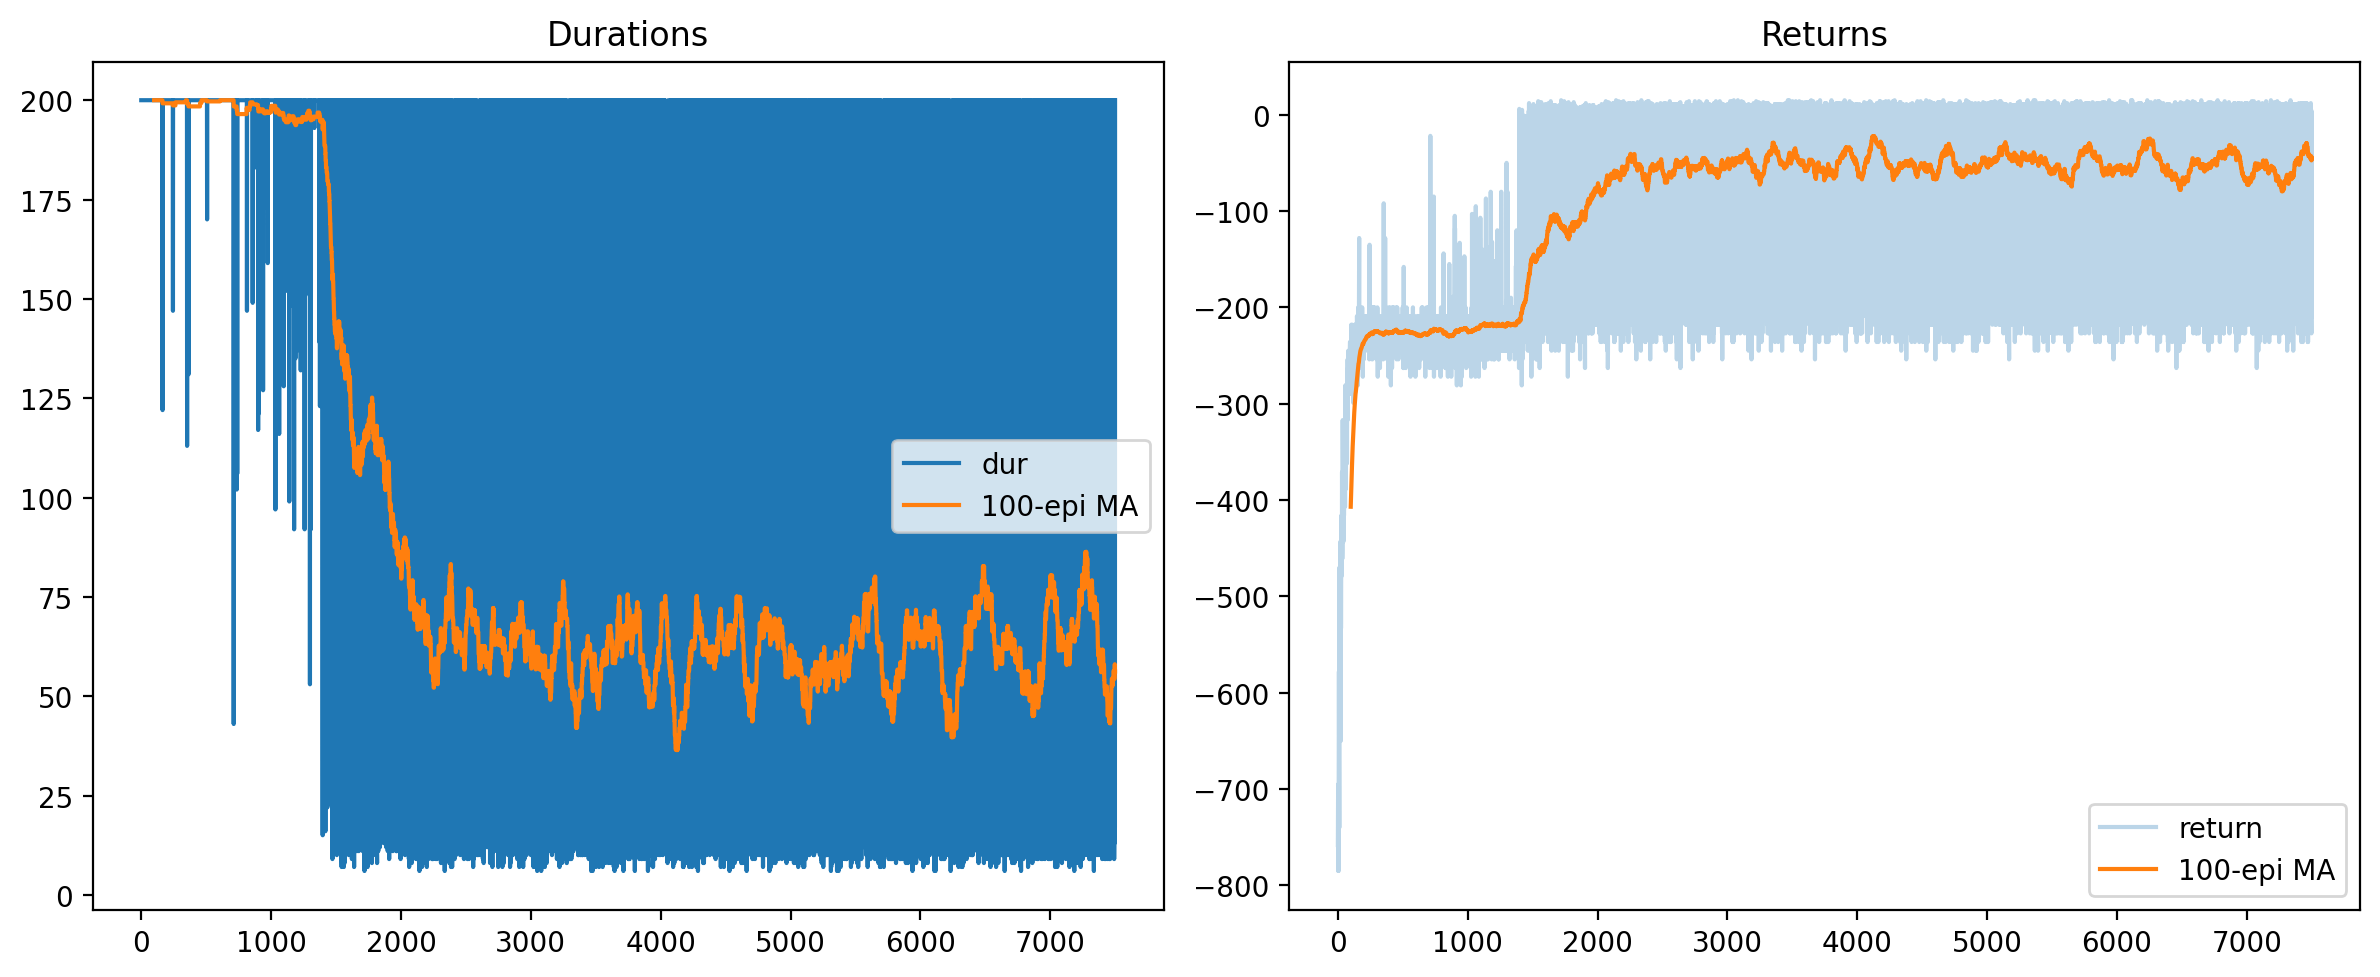
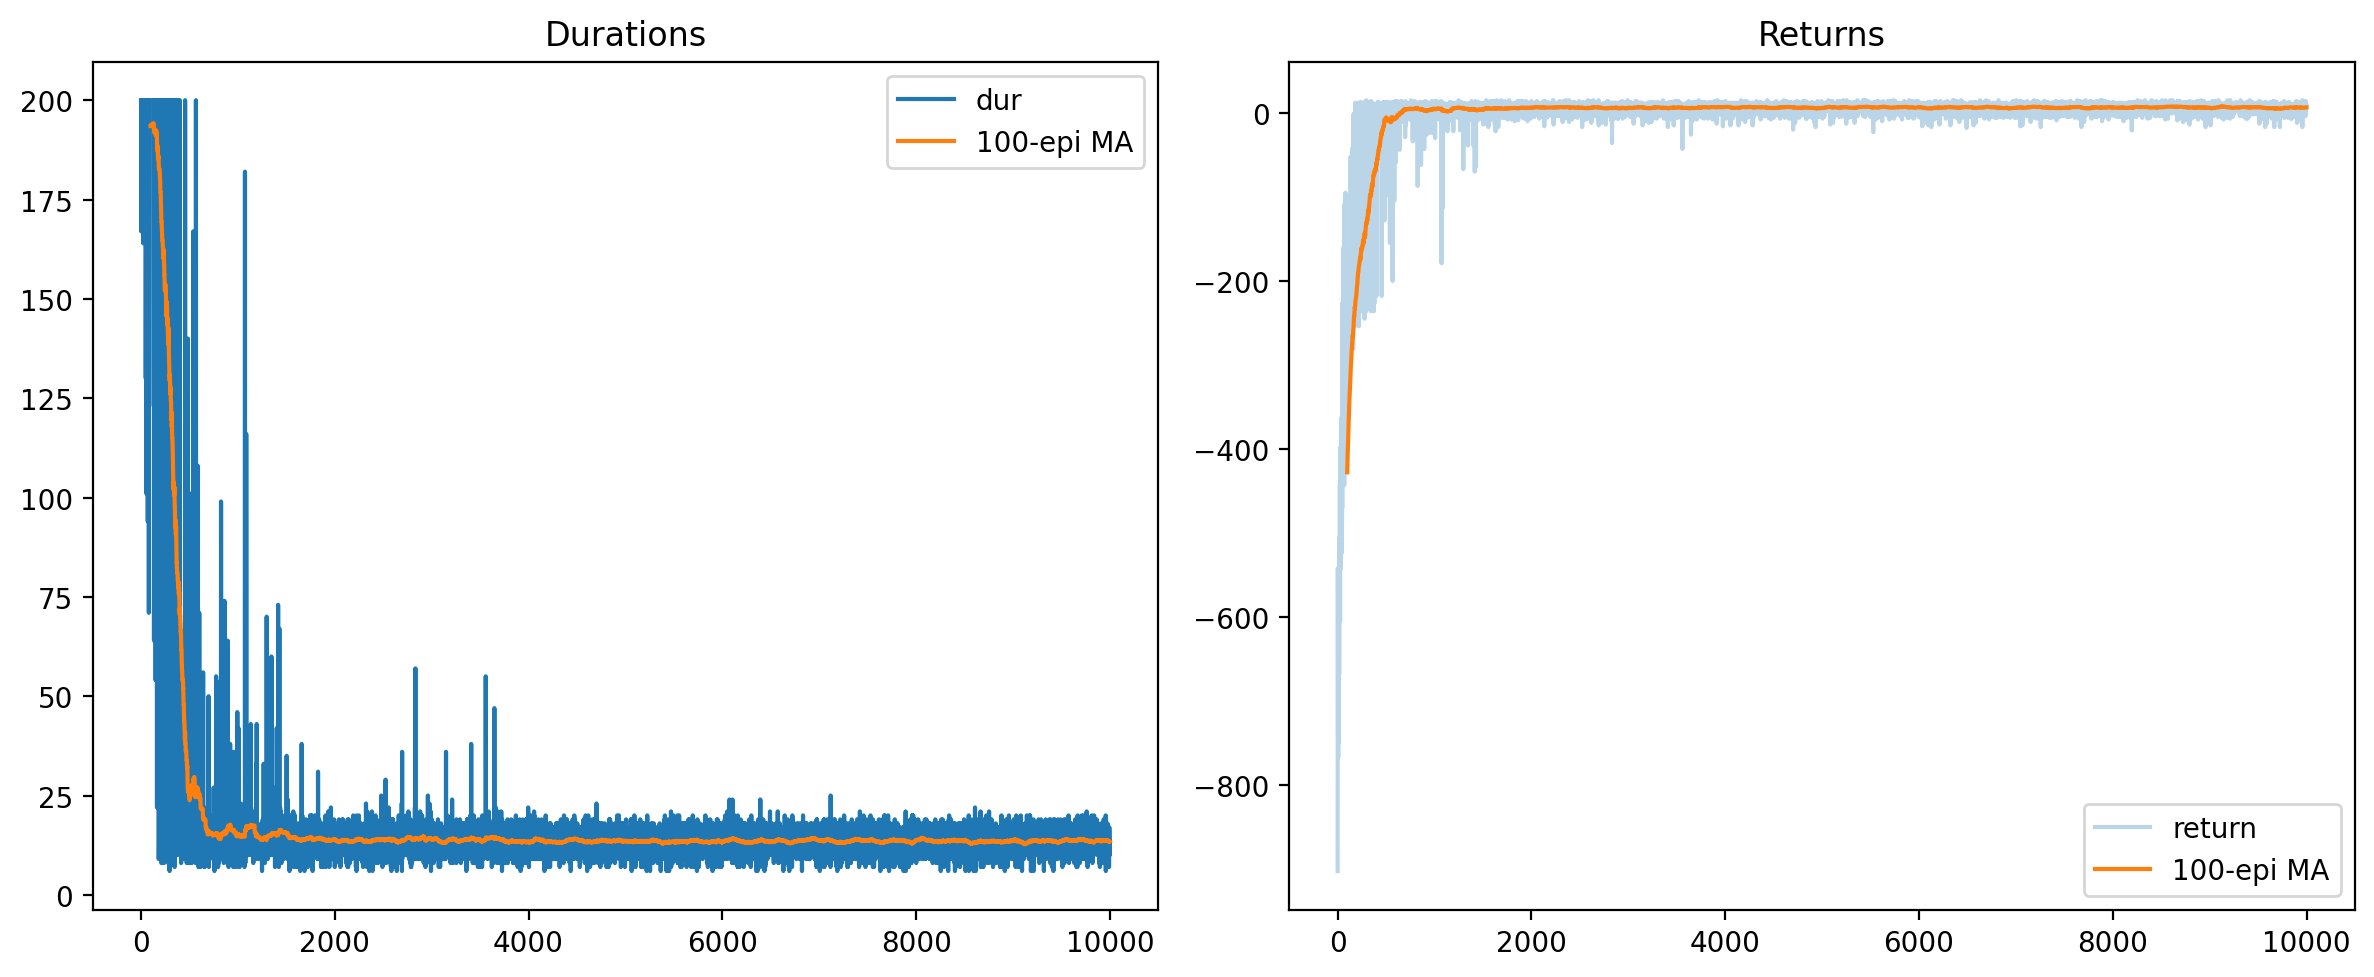
levato errore stallo

diff --git a/dqn_taxi_agent.py b/dqn_taxi_agent.py
@@ -49,14 +49,13 @@ class DQN(nn.Module):
 
 # --- Hyperparameters --------------------------------------------------------
 BATCH_SIZE   = 64
-GAMMA        = 0.995
+GAMMA        = 0.985
 EPS_START    = 1.0
-EPS_END      = 0.05
-NUM_EPISODES = 7500
+EPS_END      = 0.03
+NUM_EPISODES = 10000
 EPS_DECAY    = NUM_EPISODES * 0.9
-LR           = 3e-4
+LR           = 5e-4
 MEM_CAP      = 20000
-TARGET_UPDATE = 1000  # non puoi, single NN -> ignoralo
 
 device = torch.device("cuda" if torch.cuda.is_available() else "cpu")
 
@@ -182,17 +181,35 @@ if __name__ == "__main__":
     test_env = gym.make("Taxi-v3", render_mode="human")  # text-only
     test_returns = []
     for _ in range(5):
+        MAX_TEST_STEPS = 200
         s_int, _ = test_env.reset()
         state = F.one_hot(torch.tensor([s_int], device=device), n_states).float()
         tot_r = 0
         done = False
-        while not done:
-            with torch.no_grad():
-                action = policy_net(state).argmax(dim=1).view(1,1)
-            n_int, reward, term, trunc, _ = test_env.step(action.item())
-            done = term or trunc
-            tot_r += reward
-            state = F.one_hot(torch.tensor([n_int], device=device), n_states).float()
+        for epi in range(1, 6):
+            s_int, _ = test_env.reset()
+            state = F.one_hot(torch.tensor([s_int], device=device), n_states).float()
+            tot_r = 0.0
+
+            for t in range(MAX_TEST_STEPS):
+                with torch.no_grad():
+                    action = policy_net(state).argmax(dim=1).view(1,1)
+                n_int, reward, term, trunc, _ = test_env.step(action.item())
+                done = term or trunc
+                tot_r += reward
+
+                # render “human”
+                test_env.render()
+
+                # prepara next state
+                state = F.one_hot(torch.tensor([n_int], device=device), n_states).float()
+
+                if done:
+                    # appena termini, esci dal for
+                    break
+            else:
+                # eseguito solo se non c’è stato break
+                print(f"  › Test Ep {epi}: reached {MAX_TEST_STEPS} steps without finishing.")
         test_returns.append(tot_r)
     print("Test returns:", test_returns, "avg:", sum(test_returns)/len(test_returns))
 

diff --git a/q_learning_taxi.py b/q_learning_taxi.py
@@ -18,7 +18,7 @@ def run(learning_rate, n_episodes, start_epsilon, epsilon_decay, final_epsilon):
     )
 
     episode_lengths = []
-    rewards_per_episode = np.zeros(n_episodes) #aggiunta questa cosa, inizializzo tutti a zero i rewards degli espisodi
+    rewards_per_episode = np.zeros(n_episodes) #inizializzo tutti i rewards degli espisodi a zero
     for episode in tqdm(range(n_episodes)):
 
         state_int, info = env.reset()
@@ -30,7 +30,6 @@ def run(learning_rate, n_episodes, start_epsilon, epsilon_decay, final_epsilon):
         while not episode_over:
             action = agent.get_action(env, state_int)  # agent policy that uses the observation and info
             next_state_int, reward, terminated, truncated, info = env.step(action)
-            #print(f" reward from this single env.step: {reward}")
             
             steps += 1
             if reward == -10 or reward == -1:
@@ -46,7 +45,6 @@ def run(learning_rate, n_episodes, start_epsilon, epsilon_decay, final_epsilon):
 
             if episode < 100:
                 print(f"[ep{episode}] action: {action}, reward: {reward}, penalties: {penalties}")
-        #print(rewards)
         agent.decay_epsilon()
         episode_lengths.append(steps)
         rewards_per_episode[episode] = rewards # aggiunta anche qui
